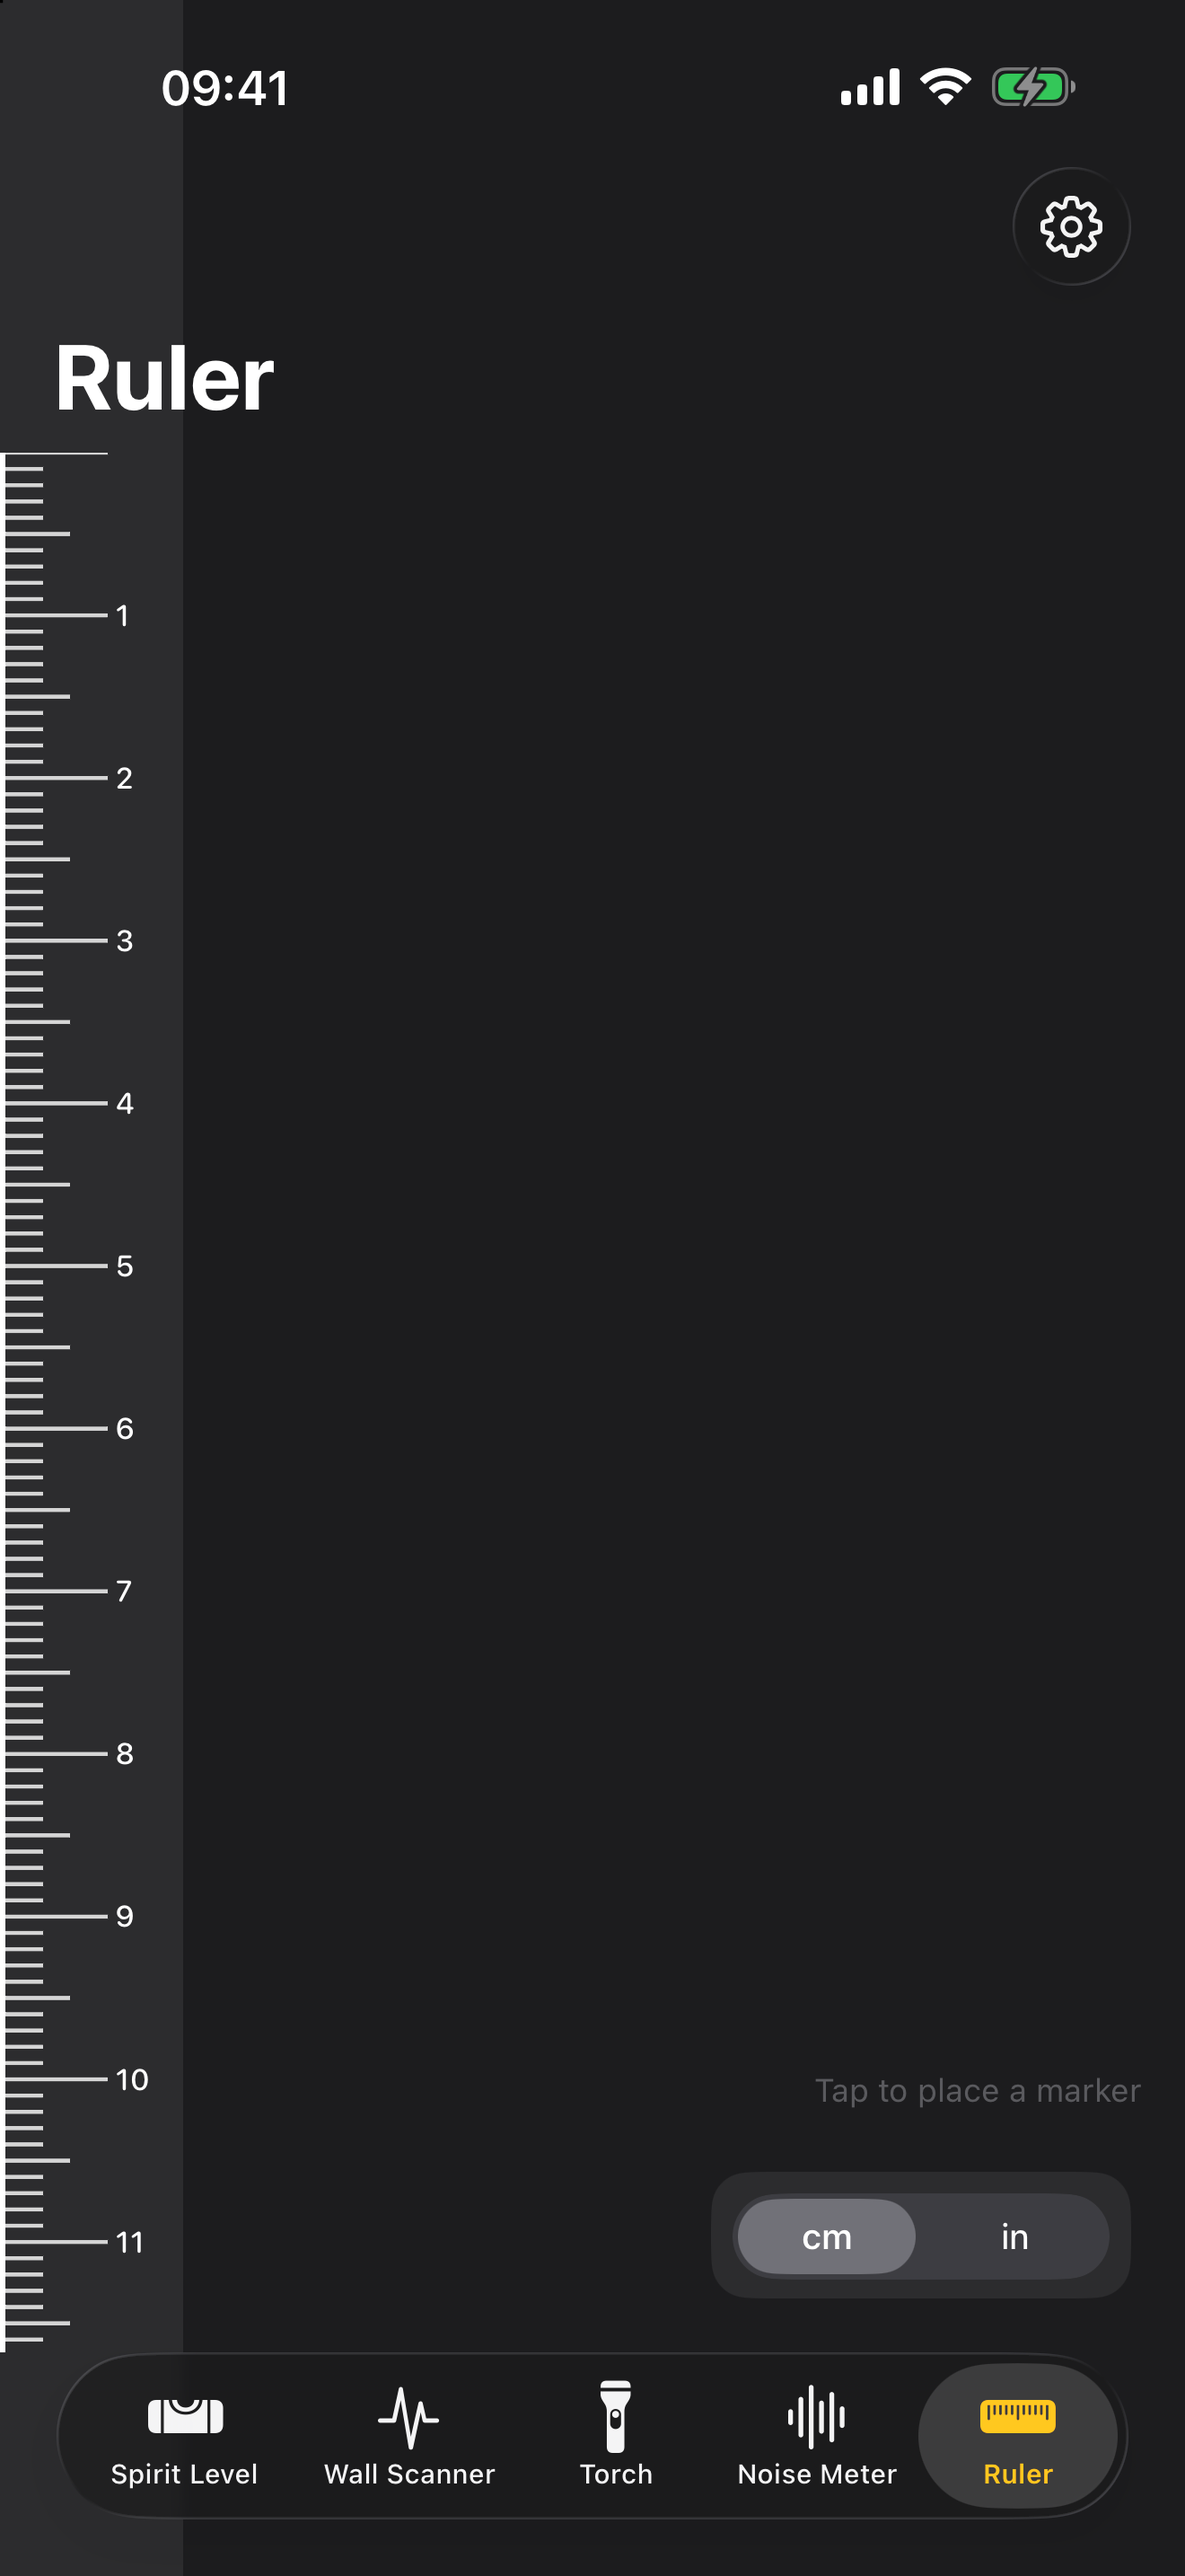
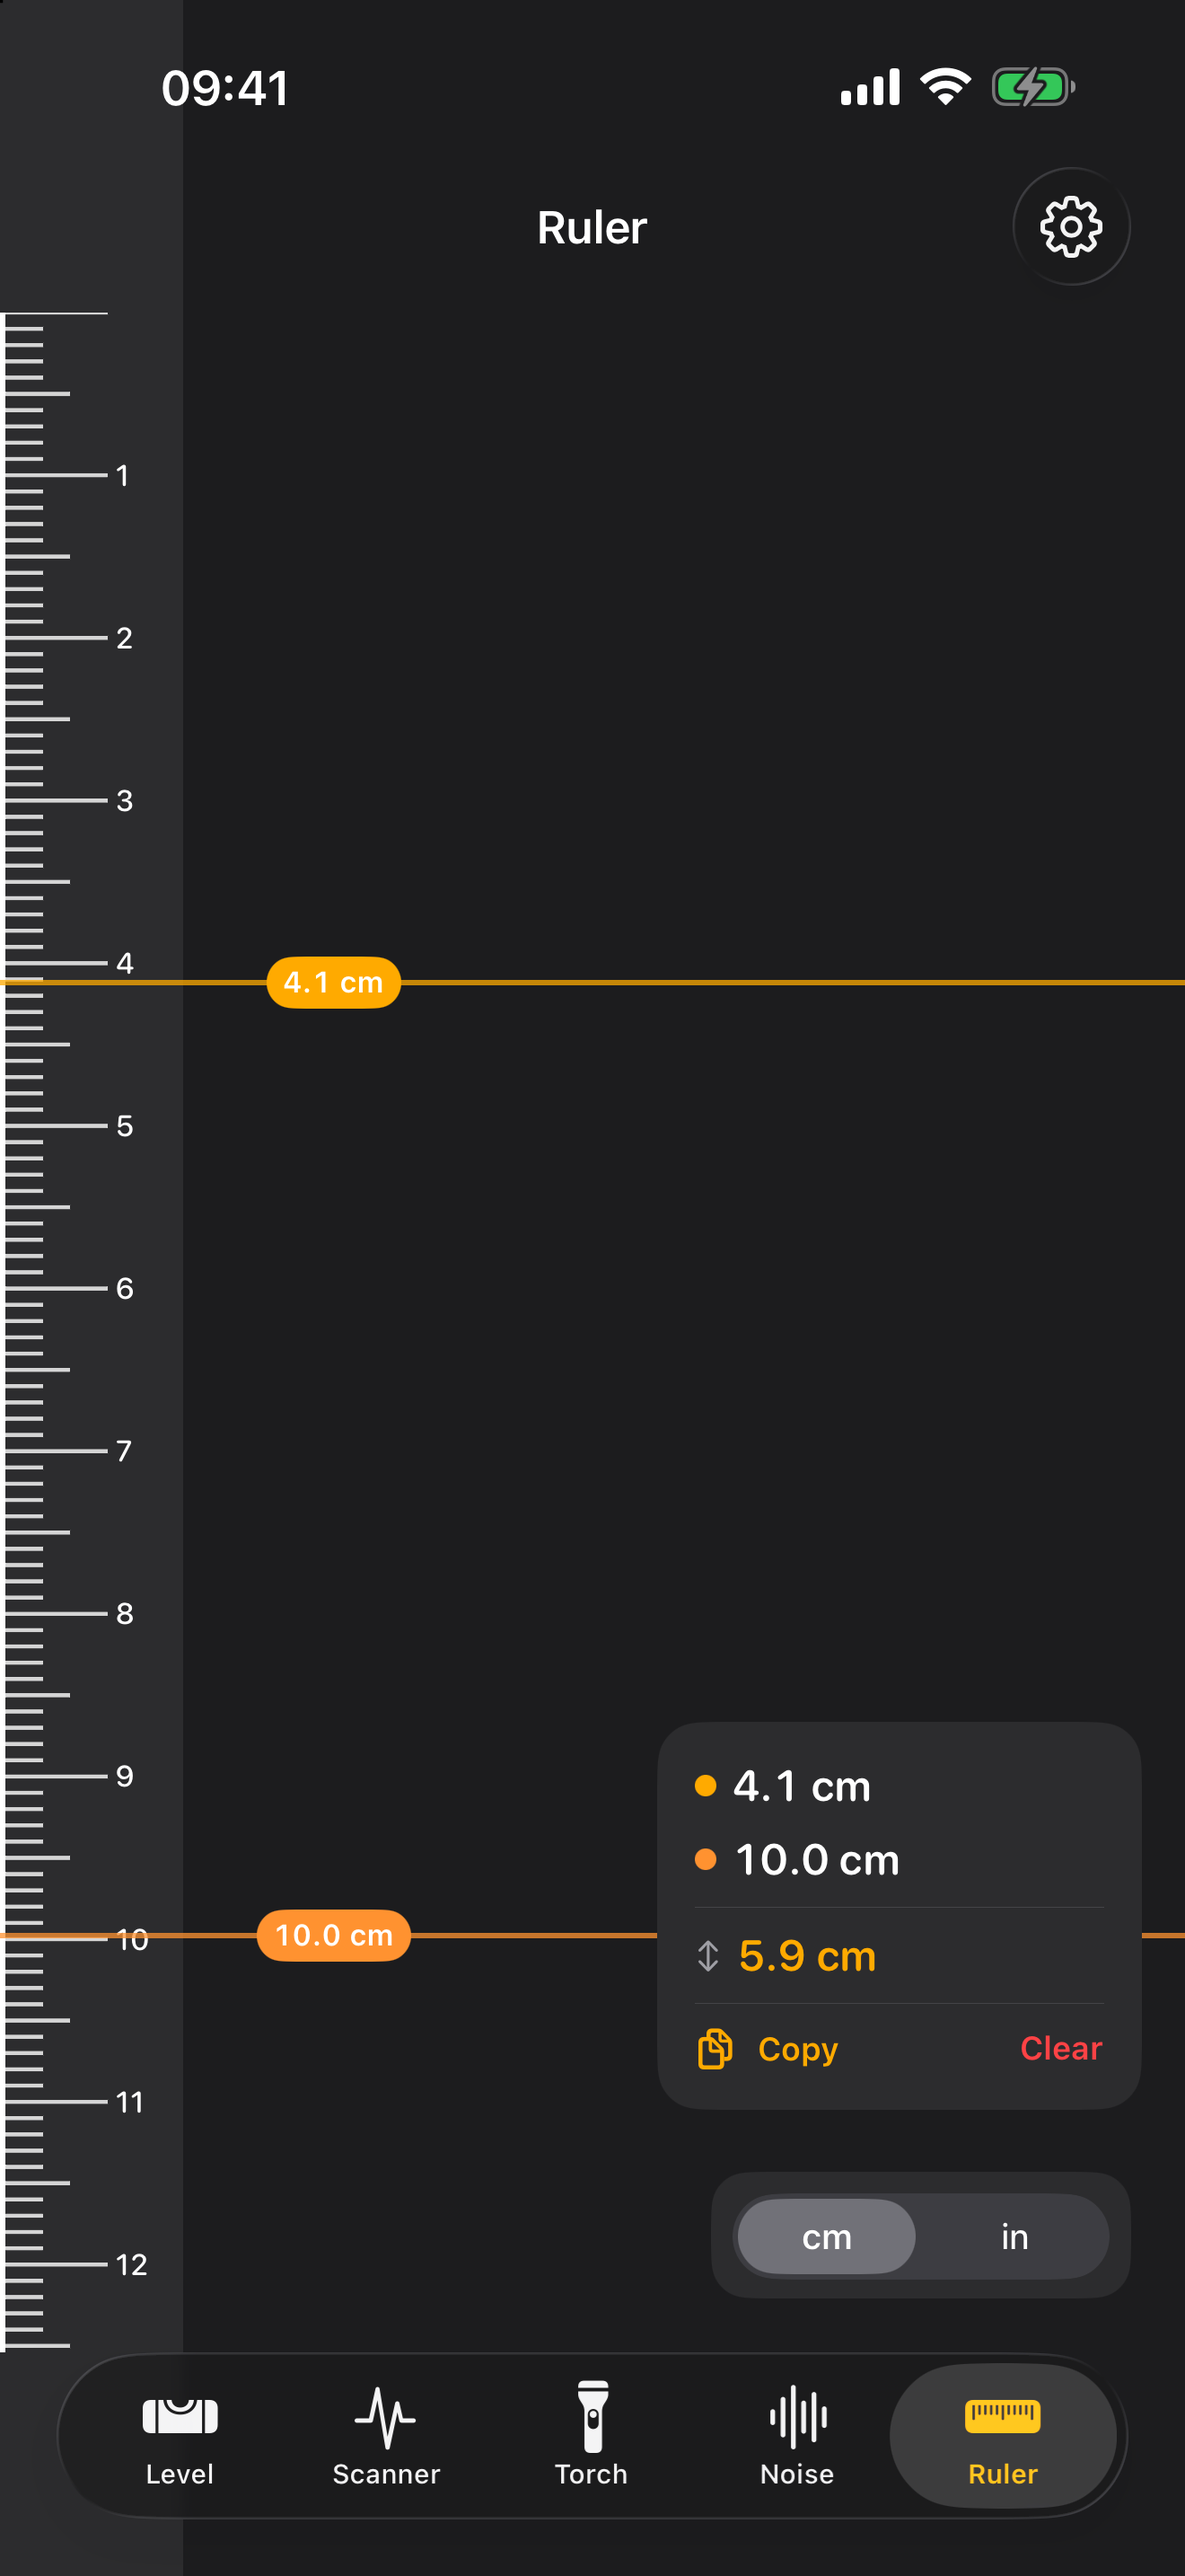
Add screenshot capture script; fix weak torch and ruler frames
The torch screenshot showed a 0% beam and the ruler an empty strip —
both because those tools have no Simulator hardware and no representative
state, unlike the level and scanner (946e8b4).

TorchManager opens at 85% in the Simulator; RulerView seeds two markers
so the ruler shows a measurement in progress. The vSize onChange that
clears markers is suppressed in the Simulator, since it fires as the size
class resolves during first layout and wiped the seed.

capture-raw-screenshots.sh drives the whole capture: fixed 09:41 status
bar, opens each tool directly via DIY_START_TAB (Simulator-only), and
verifies every shot is 1320x2868. ContentView gains a tag-based TabView
selection to support it — always tab 0 on device.

All of it compiles out of device builds. Suite still 13 tests, passing.

diff --git a/DIYCompanion/RulerView.swift b/DIYCompanion/RulerView.swift
@@ -7,8 +7,8 @@ struct RulerView: View {
     @Environment(\.verticalSizeClass) private var vSize
     @State private var showSettings = false
     @State private var showCalibration = false
-    @State private var markerA: CGFloat? = nil
-    @State private var markerB: CGFloat? = nil
+    @State private var markerA: CGFloat? = RulerView.simulatorSeed(0.26)
+    @State private var markerB: CGFloat? = RulerView.simulatorSeed(0.63)
     @State private var activeMarker: MarkerID? = nil
     @State private var didCopy = false
 
@@ -144,6 +144,20 @@ struct RulerView: View {
         }
     }
 
+    /// Simulator-only: open with two markers already placed so the ruler
+    /// screenshots as a measurement in progress rather than a blank strip.
+    /// No-op on device.
+    /// Simulator-only: an initial marker position, as a fraction down the
+    /// screen, so the ruler screenshots as a measurement in progress rather
+    /// than a blank strip. Returns nil on device, where markers start empty.
+    static func simulatorSeed(_ fraction: CGFloat) -> CGFloat? {
+        #if targetEnvironment(simulator)
+        return UIScreen.main.bounds.height * fraction
+        #else
+        return nil
+        #endif
+    }
+
     private func clearMarkers() {
         withAnimation(.easeInOut) {
             markerA = nil
@@ -218,9 +232,15 @@ struct RulerView: View {
                 // Markers are raw offsets along the active axis; on a portrait⇄
                 // landscape flip that axis changes, so a stale offset would land
                 // on the wrong (possibly off-screen) spot. Clear them.
+                //
+                // Not in the Simulator: this also fires as the size class
+                // resolves during first layout, which would wipe the seeded
+                // screenshot markers before anything is captured.
+                #if !targetEnvironment(simulator)
                 markerA = nil
                 markerB = nil
                 activeMarker = nil
+                #endif
             }
             .toolbar(vSize == .compact ? .hidden : .visible, for: .navigationBar)
             .toolbar {
@@ -281,6 +301,7 @@ struct RulerView: View {
     private func portraitLayout(geo: GeometryProxy) -> some View {
         let rulerW: CGFloat = 68
         return ZStack(alignment: .bottomTrailing) {
+
             // Layer 1: ruler strip + gesture area
             HStack(spacing: 0) {
                 RulerStrip(

diff --git a/DIYCompanion/ContentView.swift b/DIYCompanion/ContentView.swift
@@ -19,32 +19,52 @@ struct ContentView: View {
     // and we must count each app launch exactly once.
     private static var didHandleLaunch = false
 
+    @State private var selectedTab: Int = ContentView.initialTab
+
+    /// Always the first tab on device. In the Simulator, honours DIY_START_TAB
+    /// so the screenshot tooling can open a tool directly without needing to
+    /// drive the tab bar — see `Screenshots/capture-raw-screenshots.sh`.
+    private static var initialTab: Int {
+        #if targetEnvironment(simulator)
+        if let raw = ProcessInfo.processInfo.environment["DIY_START_TAB"],
+           let tab = Int(raw), (0...4).contains(tab) {
+            return tab
+        }
+        #endif
+        return 0
+    }
+
     var body: some View {
-        TabView {
+        TabView(selection: $selectedTab) {
             SpiritLevelView()
                 .tabItem {
                     Label("Level", systemImage: "level")
                 }
+                .tag(0)
 
             StudFinderView()
                 .tabItem {
                     Label("Scanner", systemImage: "waveform.path.ecg")
                 }
+                .tag(1)
 
             InspectionLightView()
                 .tabItem {
                     Label(flashlightName, systemImage: "flashlight.on.fill")
                 }
+                .tag(2)
 
             NoiseMeterView()
                 .tabItem {
                     Label("Noise", systemImage: "waveform")
                 }
+                .tag(3)
 
             RulerView()
                 .tabItem {
                     Label("Ruler", systemImage: "ruler")
                 }
+                .tag(4)
         }
         .task { handleLaunch() }
     }

diff --git a/DIYCompanion/HardwareManagers.swift b/DIYCompanion/HardwareManagers.swift
@@ -460,6 +460,16 @@ class TorchManager: ObservableObject {
         return (dev?.hasTorch == true) ? dev : nil
     }()
 
+    init() {
+        #if targetEnvironment(simulator)
+        // No torch hardware in the Simulator, so the tool would otherwise always
+        // screenshot at 0% — a dark button and an empty slider. Open on a
+        // representative lit state instead. Compiled out of device builds.
+        intensity = 0.85
+        lastOnLevel = 0.85
+        #endif
+    }
+
     func toggle() {
         intensity = intensity > 0 ? 0 : lastOnLevel
     }
